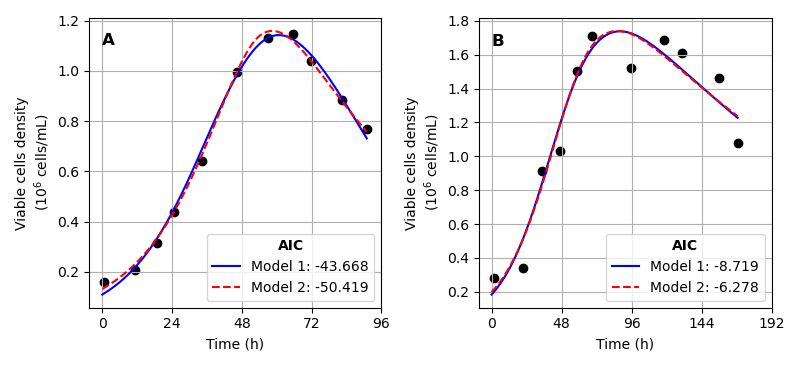
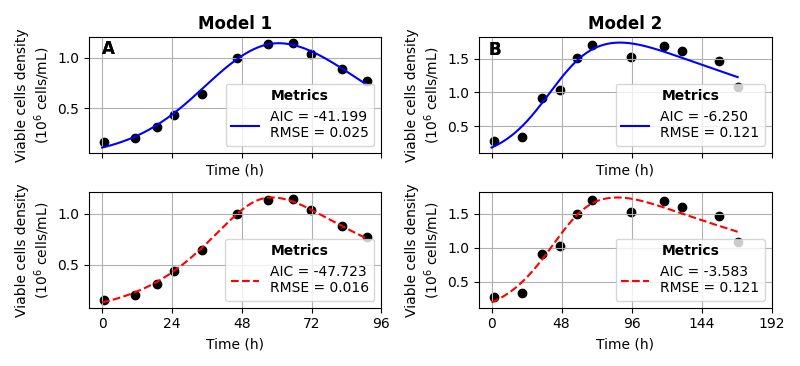
Modify to integrate reviewers comments

diff --git a/main_code_associated_to_Martinez2025.py b/main_code_associated_to_Martinez2025.py
@@ -18,10 +18,39 @@ import numpy as np
 from scipy.integrate import solve_ivp
 from scipy.optimize import curve_fit
 import matplotlib.pyplot as plt
+from scipy import stats
 
 # =============================================================================
 # FUNCTIONS
 # =============================================================================
+def compute_calibration_metrics(t_eval,X_data, model_to_fit, popt,pcov,names  = ['a','b','c','m','x0']):
+    # 6) Estimate residual‐based σ and rescale covariance
+    fitted = model_to_fit(t_eval, *popt)
+    resid   = X_data - fitted
+    N, P    = X_data.size, popt.size
+    dof     = N - P
+    σ2      = np.sum(resid**2) / dof
+    σ       = np.sqrt(σ2)
+    pcov    = pcov * σ2
+    
+    # 7) Standard errors and 95 % t‐intervals
+    perr   = np.sqrt(np.diag(pcov))
+    alpha  = 0.05
+    tval   = stats.t.ppf(1 - alpha/2, dof)
+    ci95   = tval * perr
+    
+    # AIC/RMSE
+    aic_1, rmse_1, sigma_1 = compute_aic_and_rmse(X_data, fitted, len(names))
+    
+   
+    print(f"\nEstimation of\nσ = {σ:.4f},\ndof = {dof},\nt₀.₉₇₅ = {tval:.3f}")
+    print(f'AIC = {aic_1},\nRMSE = {rmse_1}')
+    print("\nParam.   Value    stderr    IC 95%")
+    for nm, pv, err, ci in zip(names, popt, perr, ci95):
+        lo, hi = pv - ci, pv + ci
+        print(f"{nm:>4s}     {pv:7.4f}  {err:7.4f}   [{lo:7.4f}, {hi:7.4f}]")
+    print('------------')
+    return f'AIC = {aic_1:.3f}\nRMSE = {rmse_1:.3f}'
 
 def compute_aic_and_rmse(data, sol, k):
     """
@@ -513,96 +542,133 @@ def figure_3():
 
     """
     dict_data = get_data()
-    fig, axs = plt.subplots(1,2, figsize =(8,11/3)) 
-    for i,((label, data_df), ax) in enumerate(zip(dict_data.items(), axs.flat[:2])):
-        print(label,'\n')
-    
-        ref_15_time = data_df['Time'].to_numpy()
-        ref_15_data = data_df['Data'].to_numpy()
+    fig, axs = plt.subplots(2,2, figsize =(8,11/3), sharex='col') 
+    for i,((label, data_df)) in enumerate(dict_data.items()):
+        if i < 2:
+            print(label,'\n')
         
-        if 'Wright' in label:
-            ref_15_data =  ref_15_data*1e-9
-        
-        
-        # Fit the model_1
-        popt_ref_15, pcov_ref_15 = curve_fit(
-            lambda t, a, b, m, x0: solve_model_1_with_null_cumulative_biomass(t, a, b, m, x0),
-            ref_15_time,
-            ref_15_data,
-            p0=[0.4, 0.02, 0.01, 0.36],  # Initial guess for a, b, m, x0
-            bounds=(0, [5, 1, 1, 1])  # Bounds for a, b, m, x0
-        )
-        
-        # Extract fitted parameters for T=30 and T=25
-        a_fit_ref_15, b_fit_ref_15, m_fit_ref_15, x0_fit_ref_15 = popt_ref_15
-        
-        # Solve the model with fitted parameters
-        t_fine = np.linspace(0, ref_15_time[-1], 500)
-        x_fit_ref_15 = solve_model_1(t_fine, a_fit_ref_15, b_fit_ref_15, m_fit_ref_15, 
-                                   x0=x0_fit_ref_15, integral0=0.0)
-        
-        x_fit_short = solve_model_1(ref_15_time, a_fit_ref_15, b_fit_ref_15, m_fit_ref_15, 
-                                   x0=x0_fit_ref_15, integral0=0.0)
-        
-        
-        ax.scatter(ref_15_time,ref_15_data,color = 'k', marker = 'o',
-                         label = '_Data')
-        
-        aic_1, rmse_1, sigma_1 = compute_aic_and_rmse(ref_15_data, x_fit_short, 3)
-        ax.plot(t_fine,x_fit_ref_15,'-b', label =  f'Model 1: {aic_1:.3f}')
-        
-        print('Model 1:',f'a = {a_fit_ref_15:.3f}, b={b_fit_ref_15:.3f}, m={m_fit_ref_15:.3f}\n AIC ={aic_1:.3f}')
-        
-        # Fit the model_2
-        popt_ref_15, pcov_ref_15 = curve_fit(
-            lambda t, a, b, c,m, x0: solve_model_2_with_null_cumulative_biomass(t, a, b,c, m, x0),
-            ref_15_time,
-            ref_15_data,
-            p0=[0.4, 0.02, 0.5, 0.01, 0.36],  # Initial guess for a, b, c, m, x0
-            bounds=(0, [10, 5, 5, 5, 5])  # Bounds for a, b, c, m, x0 # Bounds for a, b, m, x0
-        )
-        
-      
-        
-        # Extract fitted parameters for T=30 and T=25
-        a_fit_ref_15, b_fit_ref_15, c_fit_ref_15, m_fit_ref_15, x0_fit_ref_15 = popt_ref_15
-        
-        # Solve the model with fitted parameters
-        t_fine = np.linspace(0, ref_15_time[-1], 500)
-        x_fit_ref_15 = solve_model_2(t_fine, a_fit_ref_15, b_fit_ref_15,c_fit_ref_15, m_fit_ref_15, 
-                                   x0=x0_fit_ref_15, integral0=0.0)
-        
-        x_fit_short = solve_model_2(ref_15_time, a_fit_ref_15, b_fit_ref_15,c_fit_ref_15, m_fit_ref_15, 
-                                   x0=x0_fit_ref_15, integral0=0.0)
-        
-        aic_2, rmse_2, sigma_2 = compute_aic_and_rmse(ref_15_data, x_fit_short, 4)
-        
-       
-        ax.plot(t_fine,x_fit_ref_15,'--r', label = f'Model 2: {aic_2:.3f}')
-        
-        
-        # Add labels and title
-        ylabel =  data_df['ylabel'].drop_duplicates().to_list()[0]
-        xlabel =  data_df['xlabel'].drop_duplicates().to_list()[0]
-        ax.set_xlabel('Time (h)')
-        ax.set_ylabel(ylabel)
-        if i==0:
-            ax.set_xticks([0,24,48,72,24*4])
-            max_y = max(line.get_ydata().max() for line in ax.lines)
-            ax.text(0,max_y-0.05*max_y,'A', fontweight = 'bold', fontsize = 12)
-        else:
-            ax.set_xticks([0,2,4,6,8],[0,48,24*4,24*6,24*8])
-            max_y = max(line.get_ydata().max() for line in ax.lines)
-            ax.text(0,max_y-0.05*max_y,'B', fontweight = 'bold', fontsize = 12)
-        # ax.set_title(label)
-        ax.legend(title = 'AIC', loc = 'lower right', title_fontproperties={'weight':'bold'})
-        ax.grid()
-        
-        print('Model 2:',f'a = {a_fit_ref_15:.3f}, b={b_fit_ref_15:.3f}, c={c_fit_ref_15:.3f}, m={m_fit_ref_15:.3f}\n AIC ={aic_2:.3f}')
-        print('\n')
+            ref_15_time = data_df['Time'].to_numpy()
+            ref_15_data = data_df['Data'].to_numpy()
+            
+            if 'Wright' in label:
+                ref_15_data =  ref_15_data*1e-9
+            
+            
+            # Fit the model_1
+            popt_ref_15, pcov_ref_15 = curve_fit(
+                lambda t, a, b, m, x0: solve_model_1_with_null_cumulative_biomass(t, a, b, m, x0),
+                ref_15_time,
+                ref_15_data,
+                p0=[0.4, 0.02, 0.01, 0.36],  # Initial guess for a, b, m, x0
+                bounds=(0, [5, 1, 1, 1])  # Bounds for a, b, m, x0
+            )
+            
+            print('Metrics for Model 1')
+            legend_model_1 = compute_calibration_metrics(t_eval = ref_15_time,
+                                        X_data = ref_15_data, 
+                                        model_to_fit = solve_model_1_with_null_cumulative_biomass,
+                                        popt = popt_ref_15,
+                                        pcov = pcov_ref_15,
+                                        names  = ['a','b','m','x0'])
+            
+            
+            # Extract fitted parameters for T=30 and T=25
+            a_fit_ref_15, b_fit_ref_15, m_fit_ref_15, x0_fit_ref_15 = popt_ref_15
+            
+            # Solve the model with fitted parameters
+            t_fine = np.linspace(0, ref_15_time[-1], 500)
+            x_fit_ref_15 = solve_model_1(t_fine, a_fit_ref_15, b_fit_ref_15, m_fit_ref_15, 
+                                       x0=x0_fit_ref_15, integral0=0.0)
+            
+            x_fit_short = solve_model_1(ref_15_time, a_fit_ref_15, b_fit_ref_15, m_fit_ref_15, 
+                                       x0=x0_fit_ref_15, integral0=0.0)
+            
+            
+            axs[0,i].scatter(ref_15_time,ref_15_data,color = 'k', marker = 'o',
+                             label = '_Data')
+            axs[1,i].scatter(ref_15_time,ref_15_data,color = 'k', marker = 'o',
+                             label = '_Data')
+            
+            aic_1, rmse_1, sigma_1 = compute_aic_and_rmse(ref_15_data, x_fit_short, 3)
+            from matplotlib.patches import Patch
+            axs[0,i].plot(t_fine,x_fit_ref_15,'-b',label =   legend_model_1)
+            from matplotlib.lines import Line2D
+            custom_legend = [Line2D([0], [0], color='none', label=legend_model_1)]
+
+            axs[0,i].legend(handles=custom_legend)
+            
+            
+            # Fit the model_2
+            popt_ref_15, pcov_ref_15 = curve_fit(
+                lambda t, a, b, c,m, x0: solve_model_2_with_null_cumulative_biomass(t, a, b,c, m, x0),
+                ref_15_time,
+                ref_15_data,
+                p0=[0.4, 0.02, 0.5, 0.01, 0.36],  # Initial guess for a, b, c, m, x0
+                bounds=(0, [10, 5, 5, 5, 5])  # Bounds for a, b, c, m, x0 # Bounds for a, b, m, x0
+            )
+            
+            print('Metrics for Model 2')
+            legend_model_2 = compute_calibration_metrics(t_eval = ref_15_time,
+                                        X_data = ref_15_data, 
+                                        model_to_fit = solve_model_2_with_null_cumulative_biomass,
+                                        popt = popt_ref_15,
+                                        pcov = pcov_ref_15,
+                                        names  = ['a','b','c','m','x0'])
+            
+            
+            # Extract fitted parameters for T=30 and T=25
+            a_fit_ref_15, b_fit_ref_15, c_fit_ref_15, m_fit_ref_15, x0_fit_ref_15 = popt_ref_15
+            
+            # Solve the model with fitted parameters
+            t_fine = np.linspace(0, ref_15_time[-1], 500)
+            x_fit_ref_15 = solve_model_2(t_fine, a_fit_ref_15, b_fit_ref_15,c_fit_ref_15, m_fit_ref_15, 
+                                       x0=x0_fit_ref_15, integral0=0.0)
+            
+            x_fit_short = solve_model_2(ref_15_time, a_fit_ref_15, b_fit_ref_15,c_fit_ref_15, m_fit_ref_15, 
+                                       x0=x0_fit_ref_15, integral0=0.0)
+            
+            aic_2, rmse_2, sigma_2 = compute_aic_and_rmse(ref_15_data, x_fit_short, 4)
+            
+           
+            axs[1,i].plot(t_fine,x_fit_ref_15,'--r', label = legend_model_2)
+            
+            
+            # Add labels and title
+            ylabel =  data_df['ylabel'].drop_duplicates().to_list()[0]
+            xlabel =  data_df['xlabel'].drop_duplicates().to_list()[0]
+            axs[0,0].set_title('Model 1', fontweight = 'bold')
+            axs[0,1].set_title('Model 2', fontweight = 'bold')
+            
+            
+            
+            
+            for row in range(2):
+                axs[row,i].set_xlabel('Time (h)')
+                axs[row,i].set_ylabel(ylabel)
+                    
+                
+                if i==0:
+                    axs[row,i].set_xticks([0,24,48,72,24*4])
+                    max_y = max(line.get_ydata().max() for line in axs[0,0].lines)
+                    axs[0,0].text(-0.1,max_y-0.05*max_y-0.05,'A', fontweight = 'bold', fontsize = 12)
+                    
+                    
+                else:
+                    axs[row,i].set_xticks([0,2,4,6,8],[0,48,24*4,24*6,24*8])
+                    max_y = max(line.get_ydata().max() for line in axs[0,1].lines)
+                    axs[0,1].text(-0.10,max_y-0.05*max_y-0.1,'B', fontweight = 'bold', fontsize = 12)
+                    
+                    
+                # ax.set_title(label)
+                axs[row,i].legend(title = 'Metrics', loc = 'lower right', title_fontproperties={'weight':'bold'})
+                axs[row,i].grid()
+            
+            # print('Model 2:',f'a = {a_fit_ref_15:.3f}, b={b_fit_ref_15:.3f}, c={c_fit_ref_15:.3f}, m={m_fit_ref_15:.3f}\n AIC ={aic_2:.3f}')
+            print('\n')
     # Show the plot
     fig.tight_layout()
     fig.show()
+   
     
 
 def figure_4():
@@ -656,6 +722,14 @@ def figure_4():
         bounds=(0, [3, 3, 3, 3, 3, 3, 3, 3, 3, 3, 3])  # Bounds for the parameters
     )
     
+    print('Metrics for Model 2')
+    legend_model_1 = compute_calibration_metrics(t_eval = combined_time,
+                                X_data = combined_x, 
+                                model_to_fit = fit_model,
+                                popt = popt,
+                                pcov = pcov,
+                                names  = ['a','b','m','c1', 'x0_1', 'c2', 'x0_2', 'c3', 'x0_3', 'c4', 'x0_4'])
+    
     # Extract fitted parameters
     a_fit, b_fit, m_fit, c1_fit, x0_1_fit, c2_fit, x0_2_fit, c3_fit, x0_3_fit, c4_fit, x0_4_fit = popt
     # Perform the curve fitting
@@ -704,8 +778,8 @@ def figure_4():
     #google.colab.files.download(filename)
     
     # Print fitted parameters
-    print(f"Fitted parameters: a = {a_fit:.4f} h-1, b = {b_fit:.4f} g-1 L h-1, m = {m_fit:.4f} h-1")
-    print(f"S0=5 g/L: c = {c4_fit:.4f}, x0 = {x0_4_fit:.4f} g/L")
+    print(f"\nFitted parameters:\na = {a_fit:.4f} h-1,\nb = {b_fit:.4f} g-1 L h-1,\nm = {m_fit:.4f} h-1")
+    print(f"\nS0=5 g/L: c = {c4_fit:.4f}, x0 = {x0_4_fit:.4f} g/L")
     print(f"S0=10 g/L: c = {c1_fit:.4f}, x0 = {x0_1_fit:.4f} g/L")
     print(f"S0=20 g/L: c = {c2_fit:.4f}, x0 = {x0_2_fit:.4f} g/L")
     print(f"S0=2 g/L: c = {c3_fit:.4f}, x0 = {x0_3_fit:.4f} g/L")
@@ -729,7 +803,8 @@ def supplementary_figure_all_data():
     dict_data = get_data()
     fig, axs = plt.subplots(len(dict_data.keys())//4 +1,4, figsize =(16,11)) 
     for (label, data_df), ax in zip(dict_data.items(), axs.flat):
-    
+        print('--------------------------------------------')
+        print('Data from: ', label)
         ref_15_time = data_df['Time'].to_numpy()
         ref_15_data = data_df['Data'].to_numpy()
         
@@ -745,6 +820,13 @@ def supplementary_figure_all_data():
             p0=[0.4, 0.02, 0.01, 0.36],  # Initial guess for a, b, m, x0
             bounds=(0, [5, 1, 1, 1])  # Bounds for a, b, m, x0
         )
+        print('Metrics for Model 1')
+        legend_model_1 = compute_calibration_metrics(t_eval = ref_15_time,
+                                    X_data = ref_15_data, 
+                                    model_to_fit = solve_model_1_with_null_cumulative_biomass,
+                                    popt = popt_ref_15,
+                                    pcov = pcov_ref_15,
+                                    names  = ['a','b','m','x0'])
         
         # Extract fitted parameters for T=30 and T=25
         a_fit_ref_15, b_fit_ref_15, m_fit_ref_15, x0_fit_ref_15 = popt_ref_15
@@ -761,7 +843,7 @@ def supplementary_figure_all_data():
         ax.scatter(ref_15_time,ref_15_data,color = 'k', marker = 'o',
                          label = 'Data')
         
-        aic_1, rmse_1, sigma_1 = compute_aic_and_rmse(ref_15_data, x_fit_short, 3)
+        aic_1, rmse_1, sigma_1 = compute_aic_and_rmse(ref_15_data, x_fit_short, 4)
         ax.plot(t_fine,x_fit_ref_15,'-b', label =  f'Model 1:\na = {a_fit_ref_15:.3f}, b={b_fit_ref_15:.3f},\nm={m_fit_ref_15:.3f}\nAIC ={aic_1:.3f}')
         
         
@@ -774,7 +856,14 @@ def supplementary_figure_all_data():
             bounds=(0, [10, 5, 5, 5, 5])  # Bounds for a, b, c, m, x0 # Bounds for a, b, m, x0
         )
         
-      
+        print('Metrics for Model 2')
+        legend_model_1 = compute_calibration_metrics(t_eval = ref_15_time,
+                                    X_data = ref_15_data, 
+                                    model_to_fit = solve_model_2_with_null_cumulative_biomass,
+                                    popt = popt_ref_15,
+                                    pcov = pcov_ref_15,
+                                    names  = ['a','b','C','m','x0'])
+       
         
         # Extract fitted parameters for T=30 and T=25
         a_fit_ref_15, b_fit_ref_15, c_fit_ref_15, m_fit_ref_15, x0_fit_ref_15 = popt_ref_15
@@ -787,7 +876,7 @@ def supplementary_figure_all_data():
         x_fit_short = solve_model_2(ref_15_time, a_fit_ref_15, b_fit_ref_15,c_fit_ref_15, m_fit_ref_15, 
                                    x0=x0_fit_ref_15, integral0=0.0)
         
-        aic_2, rmse_2, sigma_2 = compute_aic_and_rmse(ref_15_data, x_fit_short, 4)
+        aic_2, rmse_2, sigma_2 = compute_aic_and_rmse(ref_15_data, x_fit_short, 5)
         
        
         ax.plot(t_fine,x_fit_ref_15,'-r', label = f'Model 2:\na = {a_fit_ref_15:.3f}, b={b_fit_ref_15:.3f},\nc={c_fit_ref_15:.3f}, m={m_fit_ref_15:.3f}\nAIC ={aic_2:.3f}')
